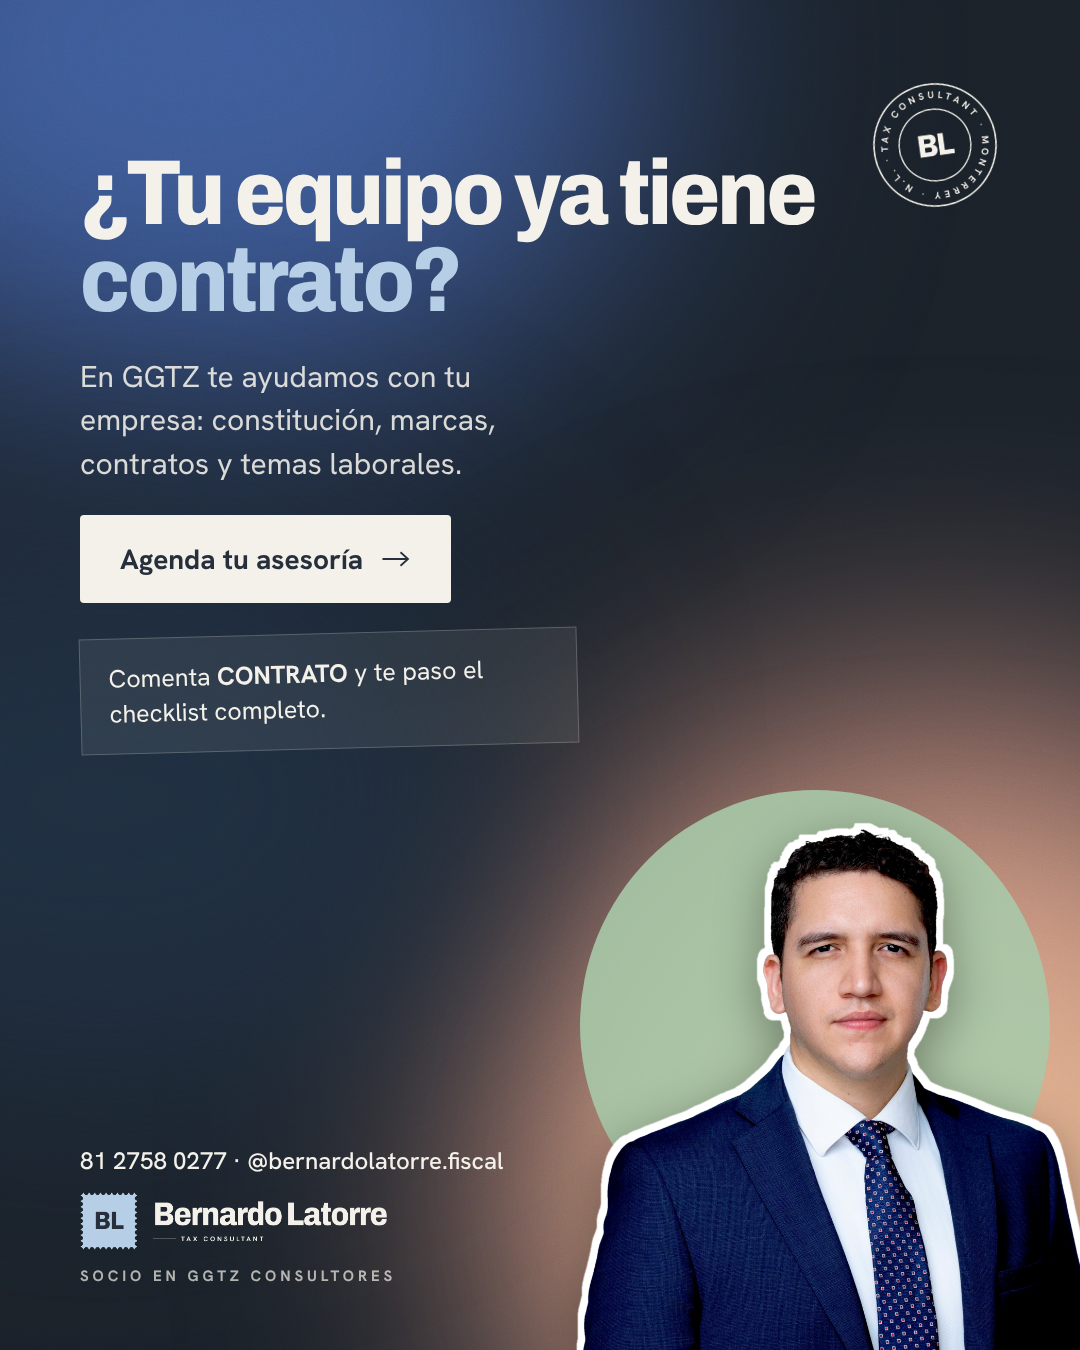
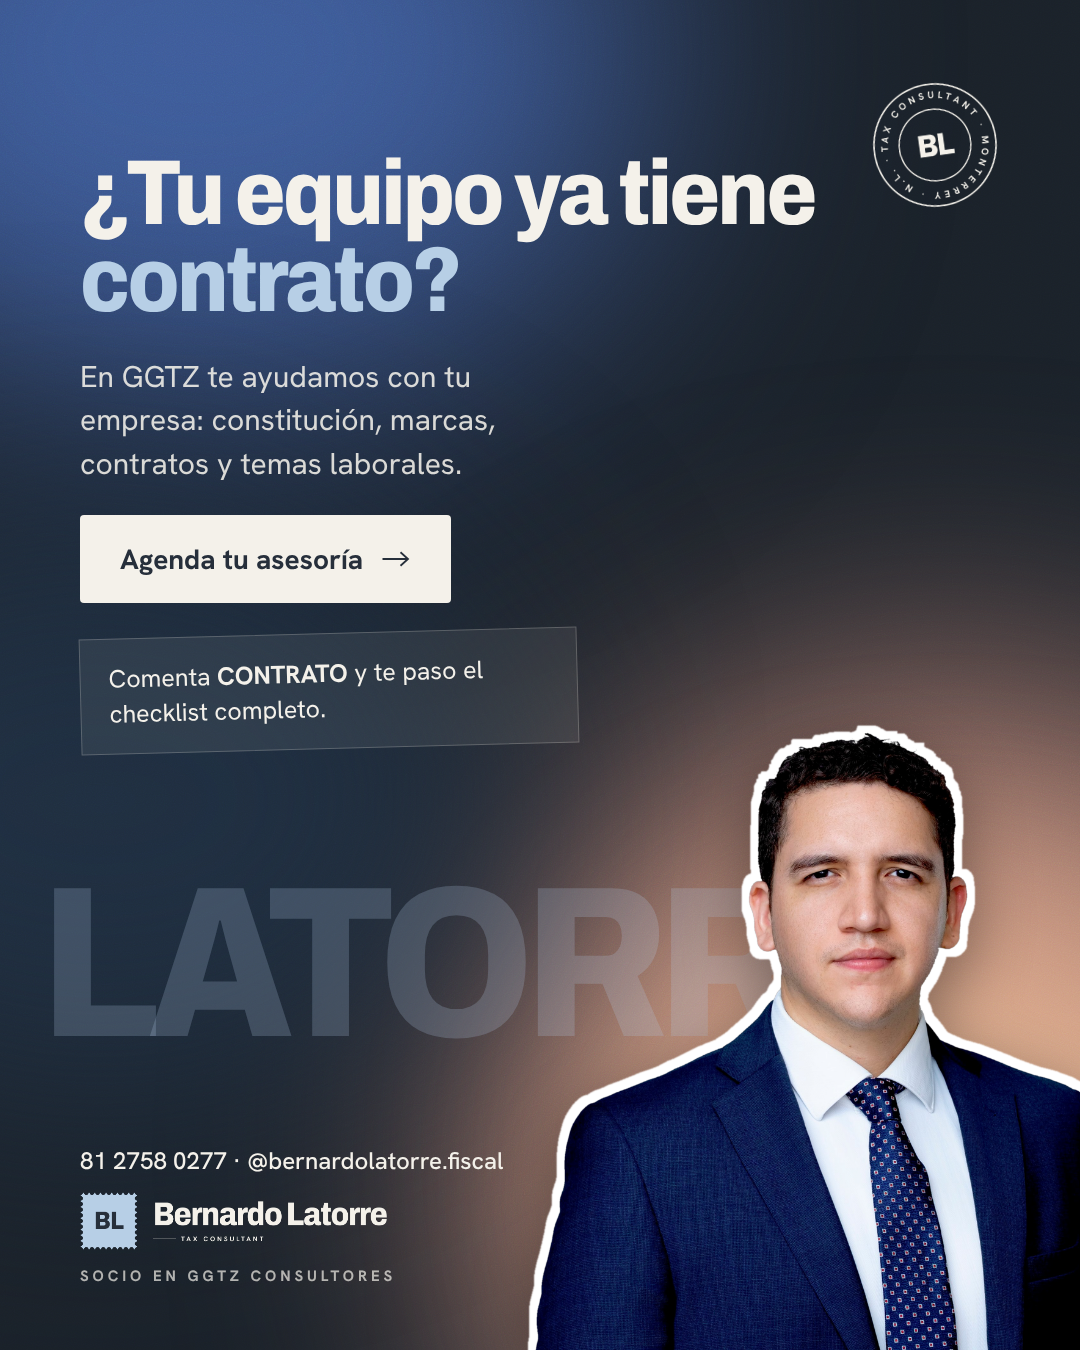
Cierre: sticker de Berny estilo portada de revista (reemplaza círculo salvia)
Claude-Session: https://claude.ai/code/session_01J2dboEZNzBYhxcXmwSfC74

Changed region(s): [[0.0306, 0.5289, 1.0, 1.0]]

diff --git a/recursos/plantillas/Exe-09-Cierre.dc.html b/recursos/plantillas/Exe-09-Cierre.dc.html
@@ -26,8 +26,7 @@ a{color:inherit}
 
 <div aria-hidden="true" style="position:absolute;inset:0;z-index:-1;overflow:hidden;background:#1A2129"><div style="position:absolute;left:-250px;top:-300px;width:900px;height:700px;border-radius:50%;background:#3E5C9A;filter:blur(140px)"></div><div style="position:absolute;left:500px;top:700px;width:900px;height:900px;border-radius:50%;background:#C98F7E;filter:blur(150px)"></div><div style="position:absolute;left:650px;top:950px;width:600px;height:500px;border-radius:50%;background:#E2B48F;filter:blur(130px)"></div><div style="position:absolute;left:-300px;top:500px;width:800px;height:600px;border-radius:50%;background:#1F2E40;filter:blur(120px)"></div><svg width="1080" height="1350" style="position:absolute;inset:0;opacity:0.16;mix-blend-mode:overlay"><filter id="gr"><feTurbulence type="fractalNoise" baseFrequency="0.9" numOctaves="2" stitchTiles="stitch"/></filter><rect width="100%" height="100%" filter="url(#gr)"/></svg></div>
 <img src="/_blob/5b8391f45478910a1d0d8ca2823faf9b" alt="" aria-hidden="true" style="position: absolute; right: 80px; top: 80px; width: 130px; height: auto; transform: rotate(-8deg)">
-<div aria-hidden="true" style="position: absolute; right: 30px; top: 790px; width: 470px; height: 470px; border-radius: 50%; background: #A9C9A9; opacity: 0.9"></div>
-<img src="/_blob/25bcb8fe94907e94b0640cf81bd101a6" alt="Bernardo Latorre, Tax Consultant" style="position: absolute; right: -30px; bottom: 0; width: 540px; height: auto; filter: drop-shadow(0 14px 24px rgba(0,0,0,0.35))">
+<div aria-hidden="true" class="serif" style="position:absolute;left:40px;bottom:300px;font-size:215px;line-height:0.8;letter-spacing:-0.05em;color:rgba(183,207,230,0.22);white-space:nowrap">LATORRE</div><img src="/_blob/25bcb8fe94907e94b0640cf81bd101a6" alt="Bernardo Latorre, Tax Consultant" style="position: absolute; right: -80px; bottom: 0; width: 640px; height: auto; filter: drop-shadow(0 20px 30px rgba(0,0,0,0.4))">
 <div style="position: relative; height: 100%; box-sizing: border-box; padding: 150px 80px 64px; display: flex; flex-direction: column; gap: 30px">
 <h2 class="serif" style="margin: 0; font-size: 92px; line-height: 0.95">¿Te depositaron<br><span style="color: #B7CFE6">y no sabes qué es?</span></h2>
 <p style="margin: 0; max-width: 470px; font-size: 30px; line-height: 1.45; color: rgba(244,241,234,0.88)">Revisamos tu caso antes de tu declaración para que no pagues de más ni te lleves sustos.</p>

diff --git a/recursos/plantillas/Leg1-07-Cierre.dc.html b/recursos/plantillas/Leg1-07-Cierre.dc.html
@@ -26,8 +26,7 @@ a{color:inherit}
 
 <div aria-hidden="true" style="position:absolute;inset:0;z-index:-1;overflow:hidden;background:#1A2129"><div style="position:absolute;left:-250px;top:-300px;width:900px;height:700px;border-radius:50%;background:#3E5C9A;filter:blur(140px)"></div><div style="position:absolute;left:500px;top:700px;width:900px;height:900px;border-radius:50%;background:#C98F7E;filter:blur(150px)"></div><div style="position:absolute;left:650px;top:950px;width:600px;height:500px;border-radius:50%;background:#E2B48F;filter:blur(130px)"></div><div style="position:absolute;left:-300px;top:500px;width:800px;height:600px;border-radius:50%;background:#1F2E40;filter:blur(120px)"></div><svg width="1080" height="1350" style="position:absolute;inset:0;opacity:0.16;mix-blend-mode:overlay"><filter id="gr"><feTurbulence type="fractalNoise" baseFrequency="0.9" numOctaves="2" stitchTiles="stitch"/></filter><rect width="100%" height="100%" filter="url(#gr)"/></svg></div>
 <img src="/_blob/5b8391f45478910a1d0d8ca2823faf9b" alt="" aria-hidden="true" style="position: absolute; right: 80px; top: 80px; width: 130px; height: auto; transform: rotate(-8deg)">
-<div aria-hidden="true" style="position: absolute; right: 30px; top: 790px; width: 470px; height: 470px; border-radius: 50%; background: #A9C9A9; opacity: 0.9"></div>
-<img src="/_blob/25bcb8fe94907e94b0640cf81bd101a6" alt="Bernardo Latorre, Tax Consultant" style="position: absolute; right: -30px; bottom: 0; width: 540px; height: auto; filter: drop-shadow(0 14px 24px rgba(0,0,0,0.35))">
+<div aria-hidden="true" class="serif" style="position:absolute;left:40px;bottom:300px;font-size:215px;line-height:0.8;letter-spacing:-0.05em;color:rgba(183,207,230,0.22);white-space:nowrap">LATORRE</div><img src="/_blob/25bcb8fe94907e94b0640cf81bd101a6" alt="Bernardo Latorre, Tax Consultant" style="position: absolute; right: -80px; bottom: 0; width: 640px; height: auto; filter: drop-shadow(0 20px 30px rgba(0,0,0,0.4))">
 <div style="position: relative; height: 100%; box-sizing: border-box; padding: 150px 80px 64px; display: flex; flex-direction: column; gap: 30px">
 <h2 class="serif" style="margin: 0; font-size: 92px; line-height: 0.95">¿Tu equipo ya tiene<br><span style="color: #B7CFE6">contrato?</span></h2>
 <p style="margin: 0; max-width: 470px; font-size: 30px; line-height: 1.45; color: rgba(244,241,234,0.88)">En GGTZ te ayudamos con tu empresa: constitución, marcas, contratos y temas laborales.</p>

diff --git a/recursos/plantillas/Nun-08-Cierre.dc.html b/recursos/plantillas/Nun-08-Cierre.dc.html
@@ -26,8 +26,7 @@ a{color:inherit}
 
 <div aria-hidden="true" style="position:absolute;inset:0;z-index:-1;overflow:hidden;background:#1A2129"><div style="position:absolute;left:-250px;top:-300px;width:900px;height:700px;border-radius:50%;background:#3E5C9A;filter:blur(140px)"></div><div style="position:absolute;left:500px;top:700px;width:900px;height:900px;border-radius:50%;background:#C98F7E;filter:blur(150px)"></div><div style="position:absolute;left:650px;top:950px;width:600px;height:500px;border-radius:50%;background:#E2B48F;filter:blur(130px)"></div><div style="position:absolute;left:-300px;top:500px;width:800px;height:600px;border-radius:50%;background:#1F2E40;filter:blur(120px)"></div><svg width="1080" height="1350" style="position:absolute;inset:0;opacity:0.16;mix-blend-mode:overlay"><filter id="gr"><feTurbulence type="fractalNoise" baseFrequency="0.9" numOctaves="2" stitchTiles="stitch"/></filter><rect width="100%" height="100%" filter="url(#gr)"/></svg></div>
 <img src="/_blob/5b8391f45478910a1d0d8ca2823faf9b" alt="" aria-hidden="true" style="position: absolute; right: 80px; top: 80px; width: 130px; height: auto; transform: rotate(-8deg)">
-<div aria-hidden="true" style="position: absolute; right: 30px; top: 790px; width: 470px; height: 470px; border-radius: 50%; background: #A9C9A9; opacity: 0.9"></div>
-<img src="/_blob/25bcb8fe94907e94b0640cf81bd101a6" alt="Bernardo Latorre, Tax Consultant" style="position: absolute; right: -30px; bottom: 0; width: 540px; height: auto; filter: drop-shadow(0 14px 24px rgba(0,0,0,0.35))">
+<div aria-hidden="true" class="serif" style="position:absolute;left:40px;bottom:300px;font-size:215px;line-height:0.8;letter-spacing:-0.05em;color:rgba(183,207,230,0.22);white-space:nowrap">LATORRE</div><img src="/_blob/25bcb8fe94907e94b0640cf81bd101a6" alt="Bernardo Latorre, Tax Consultant" style="position: absolute; right: -80px; bottom: 0; width: 640px; height: auto; filter: drop-shadow(0 20px 30px rgba(0,0,0,0.4))">
 <div style="position: relative; height: 100%; box-sizing: border-box; padding: 150px 80px 64px; display: flex; flex-direction: column; gap: 30px">
 <h2 class="serif" style="margin: 0; font-size: 92px; line-height: 0.95">¿Con cuál<br><span style="color: #B7CFE6">no estás de acuerdo?</span></h2>
 <p style="margin: 0; max-width: 470px; font-size: 30px; line-height: 1.45; color: rgba(244,241,234,0.88)">Una buena decisión fiscal también tiene que ser una buena decisión financiera.</p>

diff --git a/recursos/plantillas/_gen_oct20_22.py b/recursos/plantillas/_gen_oct20_22.py
@@ -71,7 +71,54 @@ def num_badge(n, dark=False):
     bg = "#B7CFE6" if dark else "#2B3542"; fg = "#262F3B" if dark else "#F4F1EA"
     return f'<div class="serif" style="width: 96px; height: 96px; border-radius: 50%; background: {bg}; color: {fg}; display: flex; align-items: center; justify-content: center; font-size: 64px; line-height: 1">{n}</div>'
 
-def cierre(title, pregunta_em, texto, cta, comenta, photo=None, pos=None, n=None, tot=None, alt=None, fondo="atardecer"):
+def marco_berny(marco="revista"):
+    """Lo que va detrás del sticker de Berny en el cierre. 'circulo' = el original (a Berny no le gustó, 18 oct 2026)."""
+    img = f'<img src="{B('berny')}" alt="Bernardo Latorre, Tax Consultant" style="position: absolute; right: -30px; bottom: 0; width: 540px; height: auto; filter: drop-shadow(0 14px 24px rgba(0,0,0,0.35))">'
+    if marco == "circulo":
+        return '<div aria-hidden="true" style="position: absolute; right: 30px; top: 790px; width: 470px; height: 470px; border-radius: 50%; background: #A9C9A9; opacity: 0.9"></div>' + img
+    if marco == "estampilla":
+        # Estampilla perforada (motivo del logo BL) en azul polvo; la cabeza de Berny se sale por arriba.
+        w, h, r, paso = 450, 560, 11, 32
+        hoyos = "".join(f'<circle cx="{x}" cy="0" r="{r}"/><circle cx="{x}" cy="{h}" r="{r}"/>' for x in range(paso // 2, w, paso))
+        hoyos += "".join(f'<circle cx="0" cy="{y}" r="{r}"/><circle cx="{w}" cy="{y}" r="{r}"/>' for y in range(paso // 2, h, paso))
+        svg = (f'<svg aria-hidden="true" width="{w}" height="{h}" viewBox="0 0 {w} {h}" style="position:absolute;right:50px;bottom:70px;transform:rotate(-5deg);filter:drop-shadow(0 18px 30px rgba(0,0,0,0.35))">'
+               f'<defs><mask id="perf"><rect width="{w}" height="{h}" fill="#fff"/><g fill="#000">{hoyos}</g></mask></defs>'
+               f'<g mask="url(#perf)"><rect width="{w}" height="{h}" fill="#B7CFE6"/>'
+               f'<rect x="26" y="26" width="{w-52}" height="{h-52}" fill="none" stroke="#262F3B" stroke-width="2" opacity="0.55"/></g></svg>')
+        etiqueta = ('<div aria-hidden="true" class="serif" style="position:absolute;right:405px;top:785px;transform:rotate(-5deg);font-size:44px;line-height:1;color:#262F3B">BL</div>')
+        return svg + etiqueta + img
+    if marco == "arco":
+        return ('<div aria-hidden="true" style="position:absolute;right:20px;bottom:0;width:470px;height:560px;border-radius:235px 235px 0 0;'
+                'background:linear-gradient(180deg,#D9B4A8 0%,#C98F7E 100%)"></div>'
+                '<div aria-hidden="true" style="position:absolute;right:0;bottom:0;width:510px;height:600px;border-radius:255px 255px 0 0;border:2px solid rgba(244,241,234,0.45);border-bottom:0"></div>') + img
+    if marco == "postal":
+        return ('<div aria-hidden="true" style="position:absolute;right:30px;bottom:-30px;width:460px;height:560px;background:#F4F1EA;transform:rotate(3deg);box-shadow:0 18px 34px rgba(0,0,0,0.35);'
+                'background-image:repeating-linear-gradient(135deg,#C98F7E 0 14px,#F4F1EA 14px 28px,#B7CFE6 28px 42px,#F4F1EA 42px 56px);'
+                'clip-path:none"><div style="position:absolute;inset:14px;background:#F4F1EA"></div></div>'
+                '<div aria-hidden="true" style="position:absolute;right:300px;top:780px;width:150px;height:40px;background:rgba(183,207,230,0.85);transform:rotate(-8deg)"></div>') + img
+    if marco == "revista":
+        # Efecto portada de revista: apellido gigante DETRÁS de Berny (profundidad), recorte más grande que sangra a la derecha.
+        big = '<img src="' + B('berny') + '" alt="Bernardo Latorre, Tax Consultant" style="position: absolute; right: -80px; bottom: 0; width: 640px; height: auto; filter: drop-shadow(0 20px 30px rgba(0,0,0,0.4))">'
+        palabra = ('<div aria-hidden="true" class="serif" style="position:absolute;left:40px;bottom:300px;font-size:215px;line-height:0.8;letter-spacing:-0.05em;'
+                   'color:rgba(183,207,230,0.22);white-space:nowrap">LATORRE</div>')
+        return palabra + big
+    if marco == "garabato":
+        # Pincelada a mano (tendencia 2026: recorte grande + trazo pintado), sin figura geométrica.
+        trazo = ('<svg aria-hidden="true" width="1080" height="900" viewBox="0 0 1080 900" style="position:absolute;left:0;bottom:0">'
+                 '<defs><filter id="pincel" x="-20%" y="-20%" width="140%" height="140%"><feTurbulence type="fractalNoise" baseFrequency="0.03 0.5" numOctaves="3" seed="7"/>'
+                 '<feDisplacementMap in="SourceGraphic" scale="30"/></filter></defs>'
+                 '<path d="M610 770 C 700 640, 840 520, 950 300" fill="none" stroke="#C98F7E" stroke-width="190" stroke-linecap="round" filter="url(#pincel)" opacity="0.95"/>'
+                 '<path d="M640 860 C 760 760, 900 690, 1000 560" fill="none" stroke="#B7CFE6" stroke-width="36" stroke-linecap="round" filter="url(#pincel)" opacity="0.85"/></svg>')
+        return trazo + img
+    if marco == "polaroid":
+        # Foto real de Berny en polaroid con cinta (collage), en lugar del recorte.
+        return ('<div style="position:absolute;right:60px;bottom:110px;width:430px;box-sizing:border-box;padding:16px 16px 70px;background:#FFFDF8;transform:rotate(4deg);box-shadow:0 22px 40px rgba(0,0,0,0.4)">'
+                '<img src="/_blob/df12d7834689b02a85e1e7c7bb293a70" alt="Bernardo Latorre en su oficina en Monterrey" style="display:block;width:100%;height:470px;object-fit:cover;object-position:35% 30%">'
+                '<div class="serif" style="position:absolute;left:0;right:0;bottom:18px;text-align:center;font-size:30px;color:#262F3B">Bernardo · Monterrey</div></div>'
+                '<div aria-hidden="true" style="position:absolute;right:250px;bottom:690px;width:170px;height:44px;background:rgba(183,207,230,0.88);transform:rotate(-6deg)"></div>')
+    return img
+
+def cierre(title, pregunta_em, texto, cta, comenta, photo=None, pos=None, n=None, tot=None, alt=None, fondo="atardecer", marco="revista"):
     # 13 oct 2026: sin fotos genéricas (Berny lo pidió). Fondo degradado de marca + sello + logo horizontal.
     # `photo`, `pos` y `alt` se ignoran; se conservan para no romper generadores viejos.
     import importlib.util as _u, pathlib as _p
@@ -79,8 +126,7 @@ def cierre(title, pregunta_em, texto, cta, comenta, photo=None, pos=None, n=None
     inner = f"""
 {_m.grad(fondo)}
 <img src="{_m.SELLO_MARFIL}" alt="" aria-hidden="true" style="position: absolute; right: 80px; top: 80px; width: 130px; height: auto; transform: rotate(-8deg)">
-<div aria-hidden="true" style="position: absolute; right: 30px; top: 790px; width: 470px; height: 470px; border-radius: 50%; background: #A9C9A9; opacity: 0.9"></div>
-<img src="{B('berny')}" alt="Bernardo Latorre, Tax Consultant" style="position: absolute; right: -30px; bottom: 0; width: 540px; height: auto; filter: drop-shadow(0 14px 24px rgba(0,0,0,0.35))">
+{marco_berny(marco)}
 <div style="position: relative; height: 100%; box-sizing: border-box; padding: 150px 80px 64px; display: flex; flex-direction: column; gap: 30px">
 <h2 class="serif" style="margin: 0; font-size: 92px; line-height: 0.95">{title}<br><span style="color: #B7CFE6">{pregunta_em}</span></h2>
 <p style="margin: 0; max-width: 470px; font-size: 30px; line-height: 1.45; color: rgba(244,241,234,0.88)">{texto}</p>

diff --git a/recursos/GUIA-ESTILO.md b/recursos/GUIA-ESTILO.md
@@ -31,7 +31,7 @@ Logo "Bernardo Latorre · Tax Consultant" (inspiración: tipografía serif clás
   - Texto en #1E242C. **Nunca dorado.**
 - **Tipografía:** Archivo ExtraBold para los títulos (palabra clave en color, sin cursiva; ver Identidad de marca) y Hanken Grotesk para el texto. Las etiquetas pequeñas van en mayúsculas con letter-spacing de 0.24em.
 - **Portada:** nunca lleva la foto de Berny (excepción: posts de presentación personal, donde él pidió salir en portada y un tono formal). Su foto (sticker recortado) aparece solo en la última lámina, junto al botón para agendar.
-- **Última lámina (13 oct 2026: SIN fotos genéricas):** nunca fotos de banco ni de Monterrey. Usa la función `cierre()` de `_gen_oct20_22.py`: fondo degradado de marca, sello BL arriba, pregunta en grande, botón de llamada a la acción, tarjeta para comentar/guardar, el sticker de Berny sobre círculo salvia, "81 2758 0277 · @bernardolatorre.fiscal", el logo horizontal y "SOCIO EN GGTZ CONSULTORES".
+- **Última lámina (13 oct 2026: SIN fotos genéricas):** nunca fotos de banco ni de Monterrey. Usa la función `cierre()` de `_gen_oct20_22.py`: fondo degradado de marca, sello BL arriba, pregunta en grande, botón de llamada a la acción, tarjeta para comentar/guardar, el sticker de Berny en estilo "portada de revista" (recorte grande que sangra a la derecha con "LATORRE" gigante y tenue detrás; elegido por Berny el 18 oct 2026, ya no el círculo salvia; variantes en `marco_berny()`), "81 2758 0277 · @bernardolatorre.fiscal", el logo horizontal y "SOCIO EN GGTZ CONSULTORES".
 - **Pie de cada lámina:** la fuente legal ("Fuente: art. X LISR"), el usuario de Instagram y la numeración "03 / 08".
 - **Datos:** toda cifra o artículo se verifica en la ley vigente (Luthor o una fuente oficial) o en el DOF y el SAT antes de usarse.
 - **Imágenes:**
